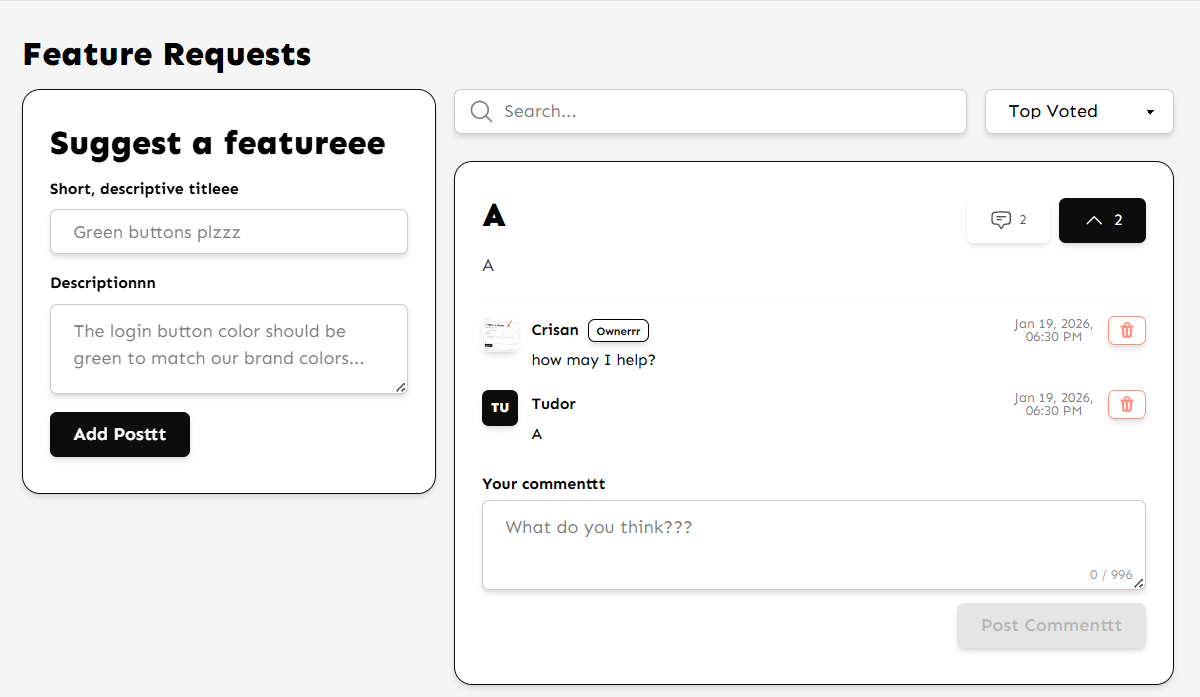
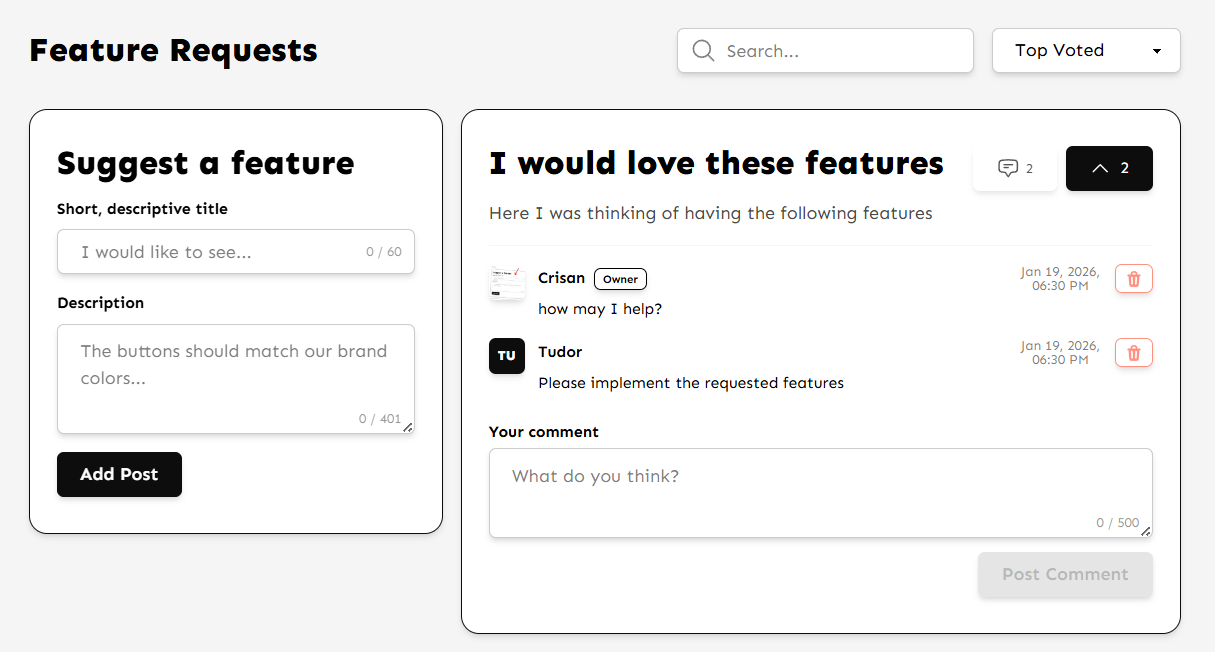
updates

diff --git a/components/modules/boards/PublicClient.js b/components/modules/boards/PublicClient.js
@@ -46,8 +46,20 @@ export default function BoardPublicClient({ board }) {
         className="min-h-screen bg-base-200 text-base-content"
       >
         <Main className={`bg-transparent! ${defaultStyling.general.box}`}>
-          <div className="max-w-5xl space-y-4 mx-auto w-full">
-            <Title>{board.name}</Title>
+          <div className="max-w-5xl space-y-8 mx-auto w-full">
+            <div className="flex flex-col sm:flex-row sm:items-center justify-between gap-4">
+              <Title className="mb-0! text-2xl sm:text-3xl">{board.name}</Title>
+              {board.posts?.length > 0 && (
+                <FilterBar
+                  search={search}
+                  setSearch={setSearch}
+                  sort={sort}
+                  setSort={setSort}
+                  sortOptions={sortOptions}
+                  className="mb-0! flex-1 sm:max-w-md sm:justify-end"
+                />
+              )}
+            </div>
             <Columns>
               <Sidebar>
                 <FormCreate
@@ -58,15 +70,6 @@ export default function BoardPublicClient({ board }) {
                 />
               </Sidebar>
               <div className="flex-1 w-full min-w-0">
-                {board.posts?.length > 0 && (
-                  <FilterBar
-                    search={search}
-                    setSearch={setSearch}
-                    sort={sort}
-                    setSort={setSort}
-                    sortOptions={sortOptions}
-                  />
-                )}
                 <BoardPublicPostsList
                   posts={board.posts}
                   boardId={board._id.toString()}
